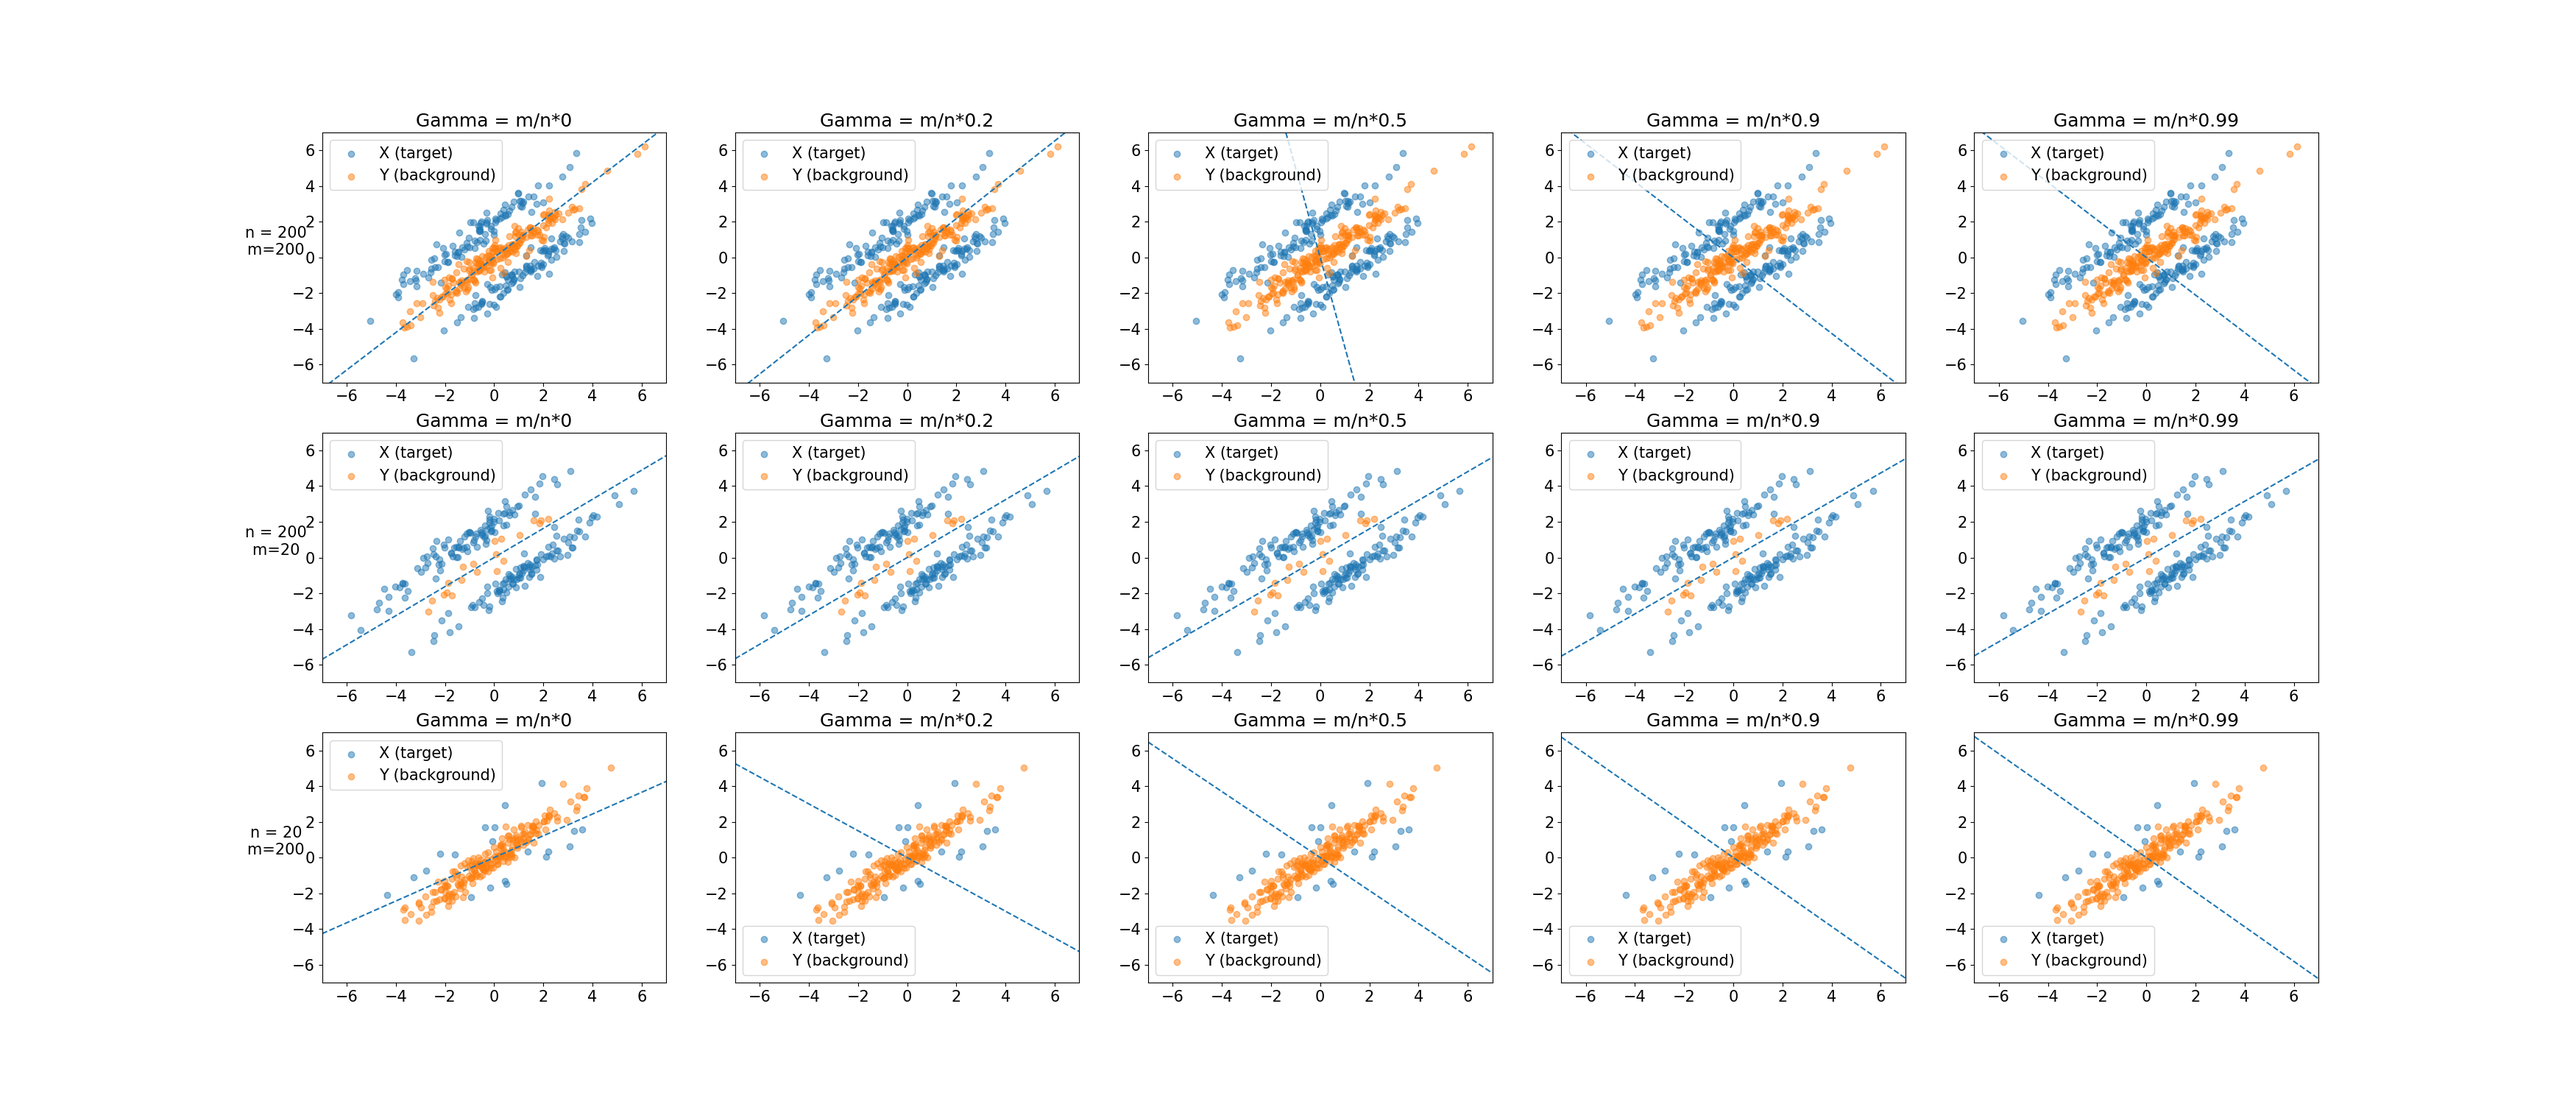
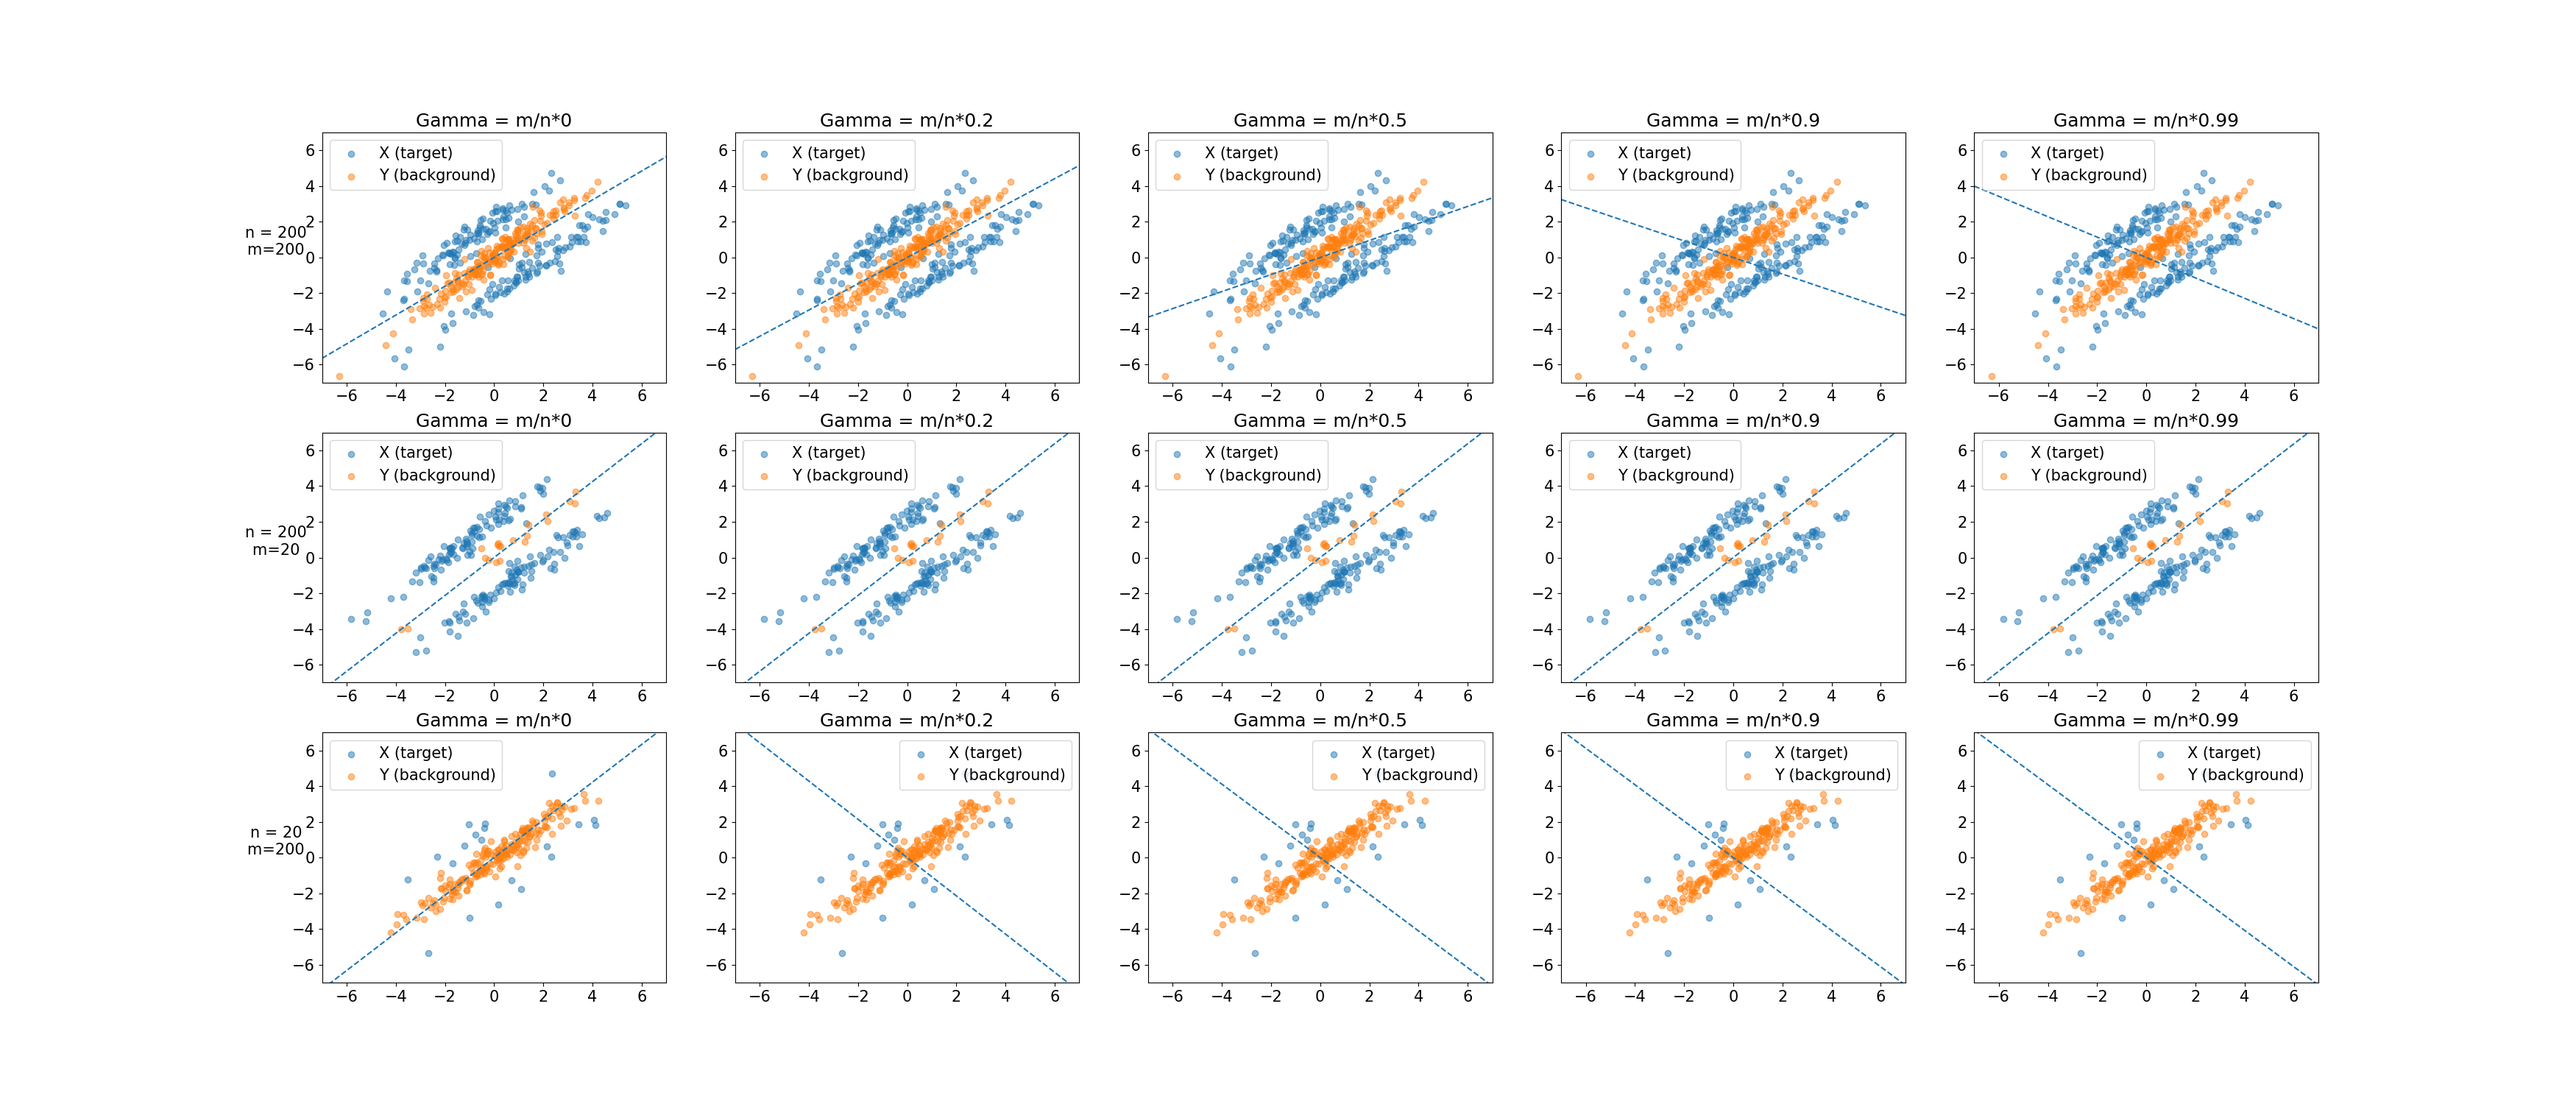
new plots

diff --git a/experiments/cpca_vary_sample_sizes.py b/experiments/cpca_vary_sample_sizes.py
@@ -3,7 +3,7 @@ from scipy.linalg import sqrtm
 
 import sys
 sys.path.append("../models")
-from pcpca import PCPCA
+from cpca import CPCA
 
 
 
@@ -24,7 +24,17 @@ if __name__ == "__main__":
         [2.6, 2.7]
     ]
 
+    
 
+    def abline(slope, intercept):
+        """Plot a line from slope and intercept"""
+        axes = plt.gca()
+        x_vals = np.array(axes.get_xlim())
+        y_vals = intercept + slope * x_vals
+        plt.plot(x_vals, y_vals, '--')
+
+    # Vary gamma and plot what happens
+    # We expect that gamma equal to 0 recovers PCA on X
     n_vals = [200, 200, 20]
     m_vals = [200, 20, 200]
 
@@ -43,37 +53,23 @@ if __name__ == "__main__":
 
         X, Y = X.T, Y.T
 
-        def abline(slope, intercept):
-            """Plot a line from slope and intercept"""
-            axes = plt.gca()
-            x_vals = np.array(axes.get_xlim())
-            y_vals = intercept + slope * x_vals
-            plt.plot(x_vals, y_vals, '--')
-
-        # Vary gamma and plot what happens
-        # We expect that gamma equal to 0 recovers PCA on X
-        
-        
-        
         for ii, gamma in enumerate(gamma_range):
-            # gamma *= m/n
-            pcpca = PCPCA(gamma=gamma, n_components=k)
-            # import ipdb; ipdb.set_trace()
-            pcpca.fit(X, Y)
+            gamma_orig = gamma
+            gamma *= m/n
+            cpca = CPCA(gamma=gamma, n_components=k)
+            cpca.fit(X, Y)
 
             plt.subplot(len(n_vals), len(gamma_range), len(gamma_range) * sample_size_ii + ii+1)
-            plt.title("Gamma = {}".format(gamma))
+            plt.title("Gamma = m/n*{}".format(gamma_orig))
             plt.scatter(X[0, :], X[1, :], alpha=0.5, label="X (target)")
             plt.scatter(Y[0, :], Y[1, :], alpha=0.5, label="Y (background)")
             plt.legend()
             plt.xlim([-7, 7])
             plt.ylim([-7, 7])
             if ii == 0:
-                plt.ylabel("n = {}\nm={}".format(n, m), rotation=0)
+                plt.ylabel("n = {}     \nm={}     ".format(n, m), rotation=0)
 
             origin = np.array([[0], [0]])  # origin point
-            abline(slope=pcpca.W_mle[1, 0] / pcpca.W_mle[0, 0], intercept=0)
-
-    plt.suptitle("Sample size-adjusted gamma")
-    plt.savefig("../plots/pcpca_varying_samplesizes.png")
+            abline(slope=cpca.W[1, 0] / cpca.W[0, 0], intercept=0)
+    plt.savefig("../plots/cpca_varying_samplesizes.png")
     plt.show()
